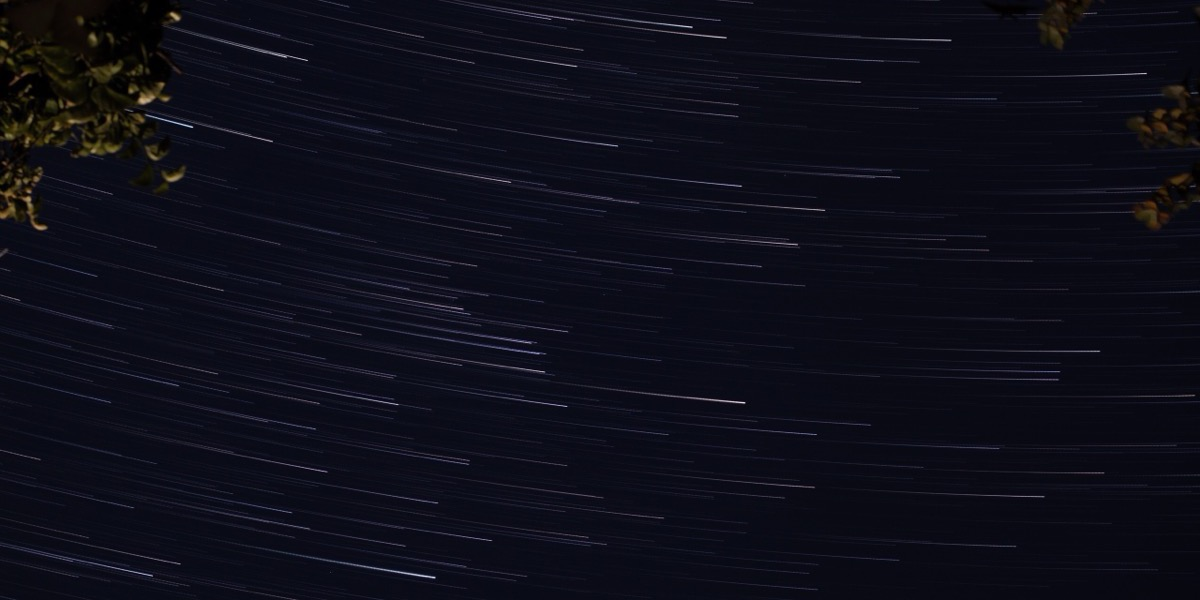
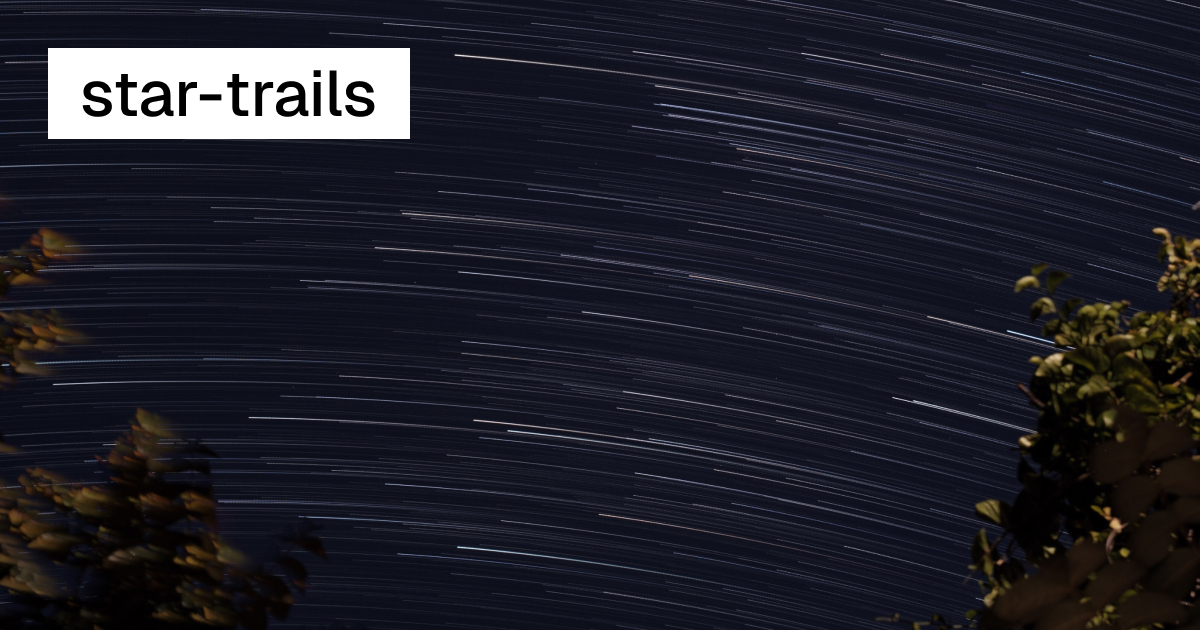
Small copy updates to the demo app

diff --git a/src/app/page.jsx b/src/app/page.jsx
@@ -1,11 +1,19 @@
-import { A, Container, HeaderH3, MainHeader, MoreExperiments, Space, Text } from 'jbx';
+import {
+  A,
+  Container,
+  HeaderH3,
+  MainHeader,
+  MoreExperiments,
+  Space,
+  Text,
+} from 'jbx';
 
 import StarTrailsApp from '../components/StarTrailsApp.jsx';
 
 export default function Page() {
   return (
     <Container>
-      <MainHeader>Star Trails</MainHeader>
+      <MainHeader>star-trails</MainHeader>
       <Space h={1} />
       <Text>
         Stack timelapse photos or a video into one star trail image. Photo

diff --git a/src/app/layout.jsx b/src/app/layout.jsx
@@ -24,7 +24,8 @@ export const metadata = {
       {
         url: THUMBNAIL,
         width: 1200,
-        height: 600,
+        height: 630,
+        alt: TITLE,
       },
     ],
   },
